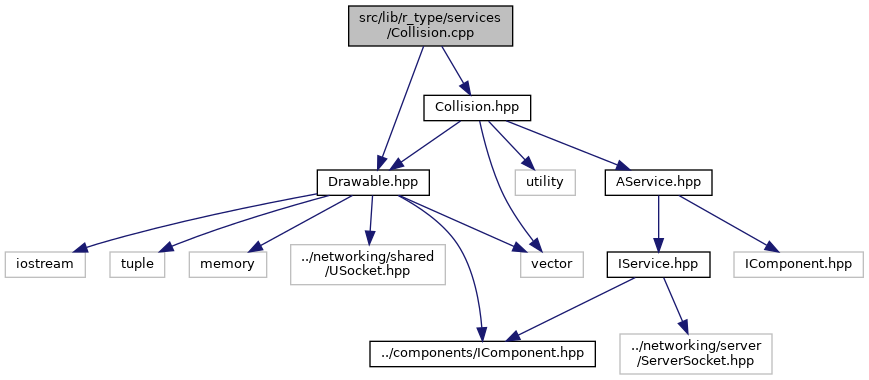
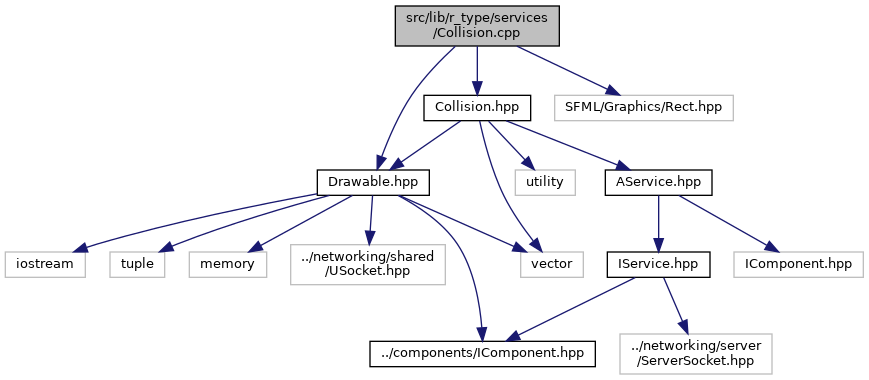
Deploying to gh-pages from @ Nathandelenclos/Rtype@f2a9d0695e841857b77890099f1d2eaf0515cfd4 🚀

diff --git a/Collision_8cpp_source.html b/Collision_8cpp_source.html
@@ -75,81 +75,61 @@ $(function() {
 <div class="line"><a name="l00004"></a><span class="lineno">    4</span>&#160; </div>
 <div class="line"><a name="l00005"></a><span class="lineno">    5</span>&#160;<span class="preprocessor">#</span><span class="preprocessor">include</span> <a class="code" href="Collision_8hpp.html">&quot;Collision.hpp&quot;</a></div>
 <div class="line"><a name="l00006"></a><span class="lineno">    6</span>&#160;<span class="preprocessor">#</span><span class="preprocessor">include</span> <a class="code" href="Drawable_8hpp.html">&quot;Drawable.hpp&quot;</a></div>
-<div class="line"><a name="l00007"></a><span class="lineno">    7</span>&#160; </div>
-<div class="line"><a name="l00008"></a><span class="lineno"><a class="line" href="classCollision.html#a890eb98d3957f7eb451d617f5e12762c">    8</a></span>&#160;<span class="keywordtype">void</span> <a class="code" href="classCollision.html">Collision</a>::<a class="code" href="classCollision.html#a890eb98d3957f7eb451d617f5e12762c">update</a>(std::shared_ptr&lt;Event&gt; event, std::shared_ptr&lt;<a class="code" href="classIComponentRType.html">IComponentRType</a>&gt; component) {</div>
-<div class="line"><a name="l00009"></a><span class="lineno">    9</span>&#160;    <span class="keyword">auto</span> drawable = std::dynamic_pointer_cast&lt;Drawable&gt;(component);</div>
-<div class="line"><a name="l00010"></a><span class="lineno">   10</span>&#160;    <span class="keywordflow">if</span> (!drawable) <span class="keywordflow">return</span>;</div>
-<div class="line"><a name="l00011"></a><span class="lineno">   11</span>&#160;    <span class="keywordflow">for</span> (<span class="keyword">auto</span> &amp;other: drawable-&gt;getDrawablesCollision()) {</div>
-<div class="line"><a name="l00012"></a><span class="lineno">   12</span>&#160;        <span class="keywordflow">if</span> (Collision::checkCollision(drawable, other)) {</div>
-<div class="line"><a name="l00013"></a><span class="lineno">   13</span>&#160;            <span class="keywordflow">if</span> (drawable-&gt;_textureId == BULLET) {</div>
-<div class="line"><a name="l00014"></a><span class="lineno">   14</span>&#160;                <span class="keywordflow">if</span> (other-&gt;_textureId == ENEMY) {</div>
-<div class="line"><a name="l00015"></a><span class="lineno">   15</span>&#160;                    drawable-&gt;_toDelete = <span class="keyword">true</span>;</div>
-<div class="line"><a name="l00016"></a><span class="lineno">   16</span>&#160;                    other-&gt;_toDelete = <span class="keyword">true</span>;</div>
-<div class="line"><a name="l00017"></a><span class="lineno">   17</span>&#160;                }</div>
-<div class="line"><a name="l00018"></a><span class="lineno">   18</span>&#160;            }</div>
-<div class="line"><a name="l00019"></a><span class="lineno">   19</span>&#160;        }</div>
-<div class="line"><a name="l00020"></a><span class="lineno">   20</span>&#160;    }</div>
-<div class="line"><a name="l00021"></a><span class="lineno">   21</span>&#160;}</div>
-<div class="line"><a name="l00022"></a><span class="lineno">   22</span>&#160; </div>
-<div class="line"><a name="l00023"></a><span class="lineno"><a class="line" href="classCollision.html#a5a1c4d571bb892f945f551b43971a901">   23</a></span>&#160;<span class="keywordtype">bool</span> <a class="code" href="classCollision.html">Collision</a>::<a class="code" href="classCollision.html#a5a1c4d571bb892f945f551b43971a901">checkCollision</a>(<span class="keyword">const</span> std::shared_ptr&lt;<a class="code" href="classDrawable.html">Drawable</a>&gt;&amp; drawable, <span class="keyword">const</span> std::shared_ptr&lt;<a class="code" href="classDrawable.html">Drawable</a>&gt;&amp; other) {</div>
-<div class="line"><a name="l00024"></a><span class="lineno">   24</span>&#160;    <a class="code" href="Drawable_8hpp.html#ac121d963f036d3ca9a61642014c3fcce">Position</a> pos1 = drawable-&gt;getPosition();</div>
-<div class="line"><a name="l00025"></a><span class="lineno">   25</span>&#160;    <a class="code" href="Drawable_8hpp.html#ac121d963f036d3ca9a61642014c3fcce">Position</a> pos2 = other-&gt;getPosition();</div>
-<div class="line"><a name="l00026"></a><span class="lineno">   26</span>&#160;    <a class="code" href="Drawable_8hpp.html#ab612d3d3173054bfdf27412db190f427">Size</a> size1 = drawable-&gt;getSize();</div>
-<div class="line"><a name="l00027"></a><span class="lineno">   27</span>&#160;    <a class="code" href="Drawable_8hpp.html#ab612d3d3173054bfdf27412db190f427">Size</a> size2 = other-&gt;getSize();</div>
-<div class="line"><a name="l00028"></a><span class="lineno">   28</span>&#160; </div>
-<div class="line"><a name="l00029"></a><span class="lineno">   29</span>&#160;    <span class="keywordflow">if</span> (std::get&lt;0&gt;(pos1) &lt; std::get&lt;0&gt;(pos2) &amp;&amp; std::get&lt;0&gt;(pos1) + std::get&lt;0&gt;(size1) &gt; std::get&lt;0&gt;(pos2) &amp;&amp;</div>
-<div class="line"><a name="l00030"></a><span class="lineno">   30</span>&#160;        std::get&lt;1&gt;(pos1) &lt; std::get&lt;1&gt;(pos2) &amp;&amp; std::get&lt;1&gt;(pos1) + std::get&lt;1&gt;(size1) &gt; std::get&lt;1&gt;(pos2)) {</div>
-<div class="line"><a name="l00031"></a><span class="lineno">   31</span>&#160;        <span class="keywordflow">return</span> <span class="keyword">true</span>;</div>
-<div class="line"><a name="l00032"></a><span class="lineno">   32</span>&#160;    }</div>
-<div class="line"><a name="l00033"></a><span class="lineno">   33</span>&#160;    <span class="keywordflow">if</span> (std::get&lt;0&gt;(pos1) &lt; std::get&lt;0&gt;(pos2) + std::get&lt;0&gt;(size2) &amp;&amp;</div>
-<div class="line"><a name="l00034"></a><span class="lineno">   34</span>&#160;        std::get&lt;0&gt;(pos1) + std::get&lt;0&gt;(size1) &gt; std::get&lt;0&gt;(pos2) + std::get&lt;0&gt;(size2) &amp;&amp;</div>
-<div class="line"><a name="l00035"></a><span class="lineno">   35</span>&#160;        std::get&lt;1&gt;(pos1) &lt; std::get&lt;1&gt;(pos2) + std::get&lt;1&gt;(size2) &amp;&amp;</div>
-<div class="line"><a name="l00036"></a><span class="lineno">   36</span>&#160;        std::get&lt;1&gt;(pos1) + std::get&lt;1&gt;(size1) &gt; std::get&lt;1&gt;(pos2) + std::get&lt;1&gt;(size2)) {</div>
-<div class="line"><a name="l00037"></a><span class="lineno">   37</span>&#160;        <span class="keywordflow">return</span> <span class="keyword">true</span>;</div>
-<div class="line"><a name="l00038"></a><span class="lineno">   38</span>&#160;    }</div>
-<div class="line"><a name="l00039"></a><span class="lineno">   39</span>&#160;    <span class="keywordflow">if</span> (std::get&lt;0&gt;(pos1) &lt; std::get&lt;0&gt;(pos2) + std::get&lt;0&gt;(size2) &amp;&amp;</div>
-<div class="line"><a name="l00040"></a><span class="lineno">   40</span>&#160;        std::get&lt;0&gt;(pos1) + std::get&lt;0&gt;(size1) &gt; std::get&lt;0&gt;(pos2) + std::get&lt;0&gt;(size2) &amp;&amp;</div>
-<div class="line"><a name="l00041"></a><span class="lineno">   41</span>&#160;        std::get&lt;1&gt;(pos1) &lt; std::get&lt;1&gt;(pos2) &amp;&amp;</div>
-<div class="line"><a name="l00042"></a><span class="lineno">   42</span>&#160;        std::get&lt;1&gt;(pos1) + std::get&lt;1&gt;(size1) &gt; std::get&lt;1&gt;(pos2)) {</div>
-<div class="line"><a name="l00043"></a><span class="lineno">   43</span>&#160;        <span class="keywordflow">return</span> <span class="keyword">true</span>;</div>
-<div class="line"><a name="l00044"></a><span class="lineno">   44</span>&#160;    }</div>
-<div class="line"><a name="l00045"></a><span class="lineno">   45</span>&#160;    <span class="keywordflow">if</span> (std::get&lt;0&gt;(pos1) &lt; std::get&lt;0&gt;(pos2) &amp;&amp;</div>
-<div class="line"><a name="l00046"></a><span class="lineno">   46</span>&#160;        std::get&lt;0&gt;(pos1) + std::get&lt;0&gt;(size1) &gt; std::get&lt;0&gt;(pos2) &amp;&amp;</div>
-<div class="line"><a name="l00047"></a><span class="lineno">   47</span>&#160;        std::get&lt;1&gt;(pos1) &lt; std::get&lt;1&gt;(pos2) + std::get&lt;1&gt;(size2) &amp;&amp;</div>
-<div class="line"><a name="l00048"></a><span class="lineno">   48</span>&#160;        std::get&lt;1&gt;(pos1) + std::get&lt;1&gt;(size1) &gt; std::get&lt;1&gt;(pos2) + std::get&lt;1&gt;(size2)) {</div>
-<div class="line"><a name="l00049"></a><span class="lineno">   49</span>&#160;        <span class="keywordflow">return</span> <span class="keyword">true</span>;</div>
-<div class="line"><a name="l00050"></a><span class="lineno">   50</span>&#160;    }</div>
-<div class="line"><a name="l00051"></a><span class="lineno">   51</span>&#160; </div>
-<div class="line"><a name="l00052"></a><span class="lineno">   52</span>&#160;    <span class="keywordflow">return</span> <span class="keyword">false</span>;</div>
-<div class="line"><a name="l00053"></a><span class="lineno">   53</span>&#160; </div>
-<div class="line"><a name="l00054"></a><span class="lineno">   54</span>&#160;}</div>
-<div class="line"><a name="l00055"></a><span class="lineno">   55</span>&#160; </div>
-<div class="line"><a name="l00056"></a><span class="lineno"><a class="line" href="classCollision.html#aeffb51679a7631bd486831c59bba81b5">   56</a></span>&#160;<span class="keywordtype">void</span> <a class="code" href="classCollision.html">Collision</a>::<a class="code" href="classCollision.html#aeffb51679a7631bd486831c59bba81b5">cancelMove</a>(<span class="keyword">const</span> std::shared_ptr&lt;Event&gt;&amp; event, <span class="keyword">const</span> std::shared_ptr&lt;<a class="code" href="classDrawable.html">Drawable</a>&gt;&amp; drawable) {</div>
-<div class="line"><a name="l00057"></a><span class="lineno">   57</span>&#160;    std::cout &lt;&lt; <span class="stringliteral">&quot;collision&quot;</span> &lt;&lt; std::endl;</div>
-<div class="line"><a name="l00058"></a><span class="lineno">   58</span>&#160;    std::tuple&lt;<span class="keywordtype">float</span>, <span class="keywordtype">float</span>&gt; pos = drawable-&gt;getPosition();</div>
-<div class="line"><a name="l00059"></a><span class="lineno">   59</span>&#160;    std::cout &lt;&lt; <span class="stringliteral">&quot;pos: &quot;</span> &lt;&lt; std::get&lt;0&gt;(pos) &lt;&lt; <span class="stringliteral">&quot; &quot;</span> &lt;&lt; std::get&lt;1&gt;(pos) &lt;&lt; std::endl;</div>
-<div class="line"><a name="l00060"></a><span class="lineno">   60</span>&#160;    <span class="keywordflow">if</span> (event == <span class="keywordtype">nullptr</span>) <span class="keywordflow">return</span>;</div>
-<div class="line"><a name="l00061"></a><span class="lineno">   61</span>&#160;    <span class="keywordflow">switch</span> (event-&gt;key) {</div>
-<div class="line"><a name="l00062"></a><span class="lineno">   62</span>&#160;        <span class="keywordflow">case</span> sf::Keyboard::Key::Left:</div>
-<div class="line"><a name="l00063"></a><span class="lineno">   63</span>&#160;            std::cout &lt;&lt; <span class="stringliteral">&quot;left&quot;</span> &lt;&lt; std::endl;</div>
-<div class="line"><a name="l00064"></a><span class="lineno">   64</span>&#160;            drawable-&gt;setPosition(std::make_tuple(std::get&lt;0&gt;(pos) + 5, std::get&lt;1&gt;(pos)));</div>
-<div class="line"><a name="l00065"></a><span class="lineno">   65</span>&#160;            <span class="keywordflow">break</span>;</div>
-<div class="line"><a name="l00066"></a><span class="lineno">   66</span>&#160;        <span class="keywordflow">case</span> sf::Keyboard::Key::Right:</div>
-<div class="line"><a name="l00067"></a><span class="lineno">   67</span>&#160;            std::cout &lt;&lt; <span class="stringliteral">&quot;Right&quot;</span> &lt;&lt; std::endl;</div>
-<div class="line"><a name="l00068"></a><span class="lineno">   68</span>&#160;            drawable-&gt;setPosition(std::make_tuple(std::get&lt;0&gt;(pos) - 5, std::get&lt;1&gt;(pos)));</div>
-<div class="line"><a name="l00069"></a><span class="lineno">   69</span>&#160;            <span class="keywordflow">break</span>;</div>
-<div class="line"><a name="l00070"></a><span class="lineno">   70</span>&#160;        <span class="keywordflow">case</span> sf::Keyboard::Key::Up:</div>
-<div class="line"><a name="l00071"></a><span class="lineno">   71</span>&#160;            std::cout &lt;&lt; <span class="stringliteral">&quot;Up&quot;</span> &lt;&lt; std::endl;</div>
-<div class="line"><a name="l00072"></a><span class="lineno">   72</span>&#160;            drawable-&gt;setPosition(std::make_tuple(std::get&lt;0&gt;(pos), std::get&lt;1&gt;(pos) - 5));</div>
-<div class="line"><a name="l00073"></a><span class="lineno">   73</span>&#160;            <span class="keywordflow">break</span>;</div>
-<div class="line"><a name="l00074"></a><span class="lineno">   74</span>&#160;        <span class="keywordflow">case</span> sf::Keyboard::Key::Down:</div>
-<div class="line"><a name="l00075"></a><span class="lineno">   75</span>&#160;            std::cout &lt;&lt; <span class="stringliteral">&quot;Down&quot;</span> &lt;&lt; std::endl;</div>
-<div class="line"><a name="l00076"></a><span class="lineno">   76</span>&#160;            drawable-&gt;setPosition(std::make_tuple(std::get&lt;0&gt;(pos), std::get&lt;1&gt;(pos) + 5));</div>
-<div class="line"><a name="l00077"></a><span class="lineno">   77</span>&#160;            <span class="keywordflow">break</span>;</div>
-<div class="line"><a name="l00078"></a><span class="lineno">   78</span>&#160;        <span class="keywordflow">default</span>:</div>
-<div class="line"><a name="l00079"></a><span class="lineno">   79</span>&#160;            <span class="keywordflow">break</span>;</div>
-<div class="line"><a name="l00080"></a><span class="lineno">   80</span>&#160;    }</div>
-<div class="line"><a name="l00081"></a><span class="lineno">   81</span>&#160;}</div>
+<div class="line"><a name="l00007"></a><span class="lineno">    7</span>&#160;<span class="preprocessor">#</span><span class="preprocessor">include</span> <span class="preprocessor">&quot;SFML/Graphics/Rect.hpp&quot;</span></div>
+<div class="line"><a name="l00008"></a><span class="lineno">    8</span>&#160; </div>
+<div class="line"><a name="l00009"></a><span class="lineno"><a class="line" href="classCollision.html#a890eb98d3957f7eb451d617f5e12762c">    9</a></span>&#160;<span class="keywordtype">void</span> <a class="code" href="classCollision.html">Collision</a>::<a class="code" href="classCollision.html#a890eb98d3957f7eb451d617f5e12762c">update</a>(std::shared_ptr&lt;Event&gt; event, std::shared_ptr&lt;<a class="code" href="classIComponentRType.html">IComponentRType</a>&gt; component) {</div>
+<div class="line"><a name="l00010"></a><span class="lineno">   10</span>&#160;    <span class="keyword">auto</span> drawable = std::dynamic_pointer_cast&lt;Drawable&gt;(component);</div>
+<div class="line"><a name="l00011"></a><span class="lineno">   11</span>&#160;    <span class="keywordflow">if</span> (!drawable) <span class="keywordflow">return</span>;</div>
+<div class="line"><a name="l00012"></a><span class="lineno">   12</span>&#160;    <span class="keywordflow">for</span> (<span class="keyword">auto</span> &amp;other: drawable-&gt;getDrawablesCollision()) {</div>
+<div class="line"><a name="l00013"></a><span class="lineno">   13</span>&#160;        <span class="keywordflow">if</span> (Collision::checkCollision(drawable, other)) {</div>
+<div class="line"><a name="l00014"></a><span class="lineno">   14</span>&#160;            <span class="keywordflow">if</span> (drawable-&gt;_textureId == BULLET) {</div>
+<div class="line"><a name="l00015"></a><span class="lineno">   15</span>&#160;                <span class="keywordflow">if</span> (other-&gt;_textureId == ENEMY) {</div>
+<div class="line"><a name="l00016"></a><span class="lineno">   16</span>&#160;                    drawable-&gt;_toDelete = <span class="keyword">true</span>;</div>
+<div class="line"><a name="l00017"></a><span class="lineno">   17</span>&#160;                    other-&gt;_toDelete = <span class="keyword">true</span>;</div>
+<div class="line"><a name="l00018"></a><span class="lineno">   18</span>&#160;                }</div>
+<div class="line"><a name="l00019"></a><span class="lineno">   19</span>&#160;            }</div>
+<div class="line"><a name="l00020"></a><span class="lineno">   20</span>&#160;        }</div>
+<div class="line"><a name="l00021"></a><span class="lineno">   21</span>&#160;    }</div>
+<div class="line"><a name="l00022"></a><span class="lineno">   22</span>&#160;}</div>
+<div class="line"><a name="l00023"></a><span class="lineno">   23</span>&#160; </div>
+<div class="line"><a name="l00024"></a><span class="lineno"><a class="line" href="classCollision.html#a5a1c4d571bb892f945f551b43971a901">   24</a></span>&#160;<span class="keywordtype">bool</span> <a class="code" href="classCollision.html">Collision</a>::<a class="code" href="classCollision.html#a5a1c4d571bb892f945f551b43971a901">checkCollision</a>(<span class="keyword">const</span> std::shared_ptr&lt;<a class="code" href="classDrawable.html">Drawable</a>&gt;&amp; drawable, <span class="keyword">const</span> std::shared_ptr&lt;<a class="code" href="classDrawable.html">Drawable</a>&gt;&amp; other) {</div>
+<div class="line"><a name="l00025"></a><span class="lineno">   25</span>&#160;    <a class="code" href="Drawable_8hpp.html#ac121d963f036d3ca9a61642014c3fcce">Position</a> pos1 = drawable-&gt;getPosition();</div>
+<div class="line"><a name="l00026"></a><span class="lineno">   26</span>&#160;    <a class="code" href="Drawable_8hpp.html#ac121d963f036d3ca9a61642014c3fcce">Position</a> pos2 = other-&gt;getPosition();</div>
+<div class="line"><a name="l00027"></a><span class="lineno">   27</span>&#160;    <a class="code" href="Drawable_8hpp.html#ab612d3d3173054bfdf27412db190f427">Size</a> size1 = {std::get&lt;2&gt;(drawable-&gt;getRect()) * drawable-&gt;getScale(), std::get&lt;3&gt;(drawable-&gt;getRect()) * drawable-&gt;getScale()};</div>
+<div class="line"><a name="l00028"></a><span class="lineno">   28</span>&#160;    <a class="code" href="Drawable_8hpp.html#ab612d3d3173054bfdf27412db190f427">Size</a> size2 = {std::get&lt;2&gt;(other-&gt;getRect()) * other-&gt;getScale(), std::get&lt;3&gt;(other-&gt;getRect()) * other-&gt;getScale()};</div>
+<div class="line"><a name="l00029"></a><span class="lineno">   29</span>&#160; </div>
+<div class="line"><a name="l00030"></a><span class="lineno">   30</span>&#160;    sf::Rect&lt;<span class="keywordtype">float</span>&gt; rect1(std::get&lt;0&gt;(pos1), std::get&lt;1&gt;(pos1), std::get&lt;0&gt;(size1), std::get&lt;1&gt;(size1));</div>
+<div class="line"><a name="l00031"></a><span class="lineno">   31</span>&#160;    sf::Rect&lt;<span class="keywordtype">float</span>&gt; rect2(std::get&lt;0&gt;(pos2), std::get&lt;1&gt;(pos2), std::get&lt;0&gt;(size2), std::get&lt;1&gt;(size2));</div>
+<div class="line"><a name="l00032"></a><span class="lineno">   32</span>&#160; </div>
+<div class="line"><a name="l00033"></a><span class="lineno">   33</span>&#160;    <span class="keywordflow">return</span> rect1.intersects(rect2);</div>
+<div class="line"><a name="l00034"></a><span class="lineno">   34</span>&#160;}</div>
+<div class="line"><a name="l00035"></a><span class="lineno">   35</span>&#160; </div>
+<div class="line"><a name="l00036"></a><span class="lineno"><a class="line" href="classCollision.html#aeffb51679a7631bd486831c59bba81b5">   36</a></span>&#160;<span class="keywordtype">void</span> <a class="code" href="classCollision.html">Collision</a>::<a class="code" href="classCollision.html#aeffb51679a7631bd486831c59bba81b5">cancelMove</a>(<span class="keyword">const</span> std::shared_ptr&lt;Event&gt;&amp; event, <span class="keyword">const</span> std::shared_ptr&lt;<a class="code" href="classDrawable.html">Drawable</a>&gt;&amp; drawable) {</div>
+<div class="line"><a name="l00037"></a><span class="lineno">   37</span>&#160;    std::cout &lt;&lt; <span class="stringliteral">&quot;collision&quot;</span> &lt;&lt; std::endl;</div>
+<div class="line"><a name="l00038"></a><span class="lineno">   38</span>&#160;    std::tuple&lt;<span class="keywordtype">float</span>, <span class="keywordtype">float</span>&gt; pos = drawable-&gt;getPosition();</div>
+<div class="line"><a name="l00039"></a><span class="lineno">   39</span>&#160;    std::cout &lt;&lt; <span class="stringliteral">&quot;pos: &quot;</span> &lt;&lt; std::get&lt;0&gt;(pos) &lt;&lt; <span class="stringliteral">&quot; &quot;</span> &lt;&lt; std::get&lt;1&gt;(pos) &lt;&lt; std::endl;</div>
+<div class="line"><a name="l00040"></a><span class="lineno">   40</span>&#160;    <span class="keywordflow">if</span> (event == <span class="keywordtype">nullptr</span>) <span class="keywordflow">return</span>;</div>
+<div class="line"><a name="l00041"></a><span class="lineno">   41</span>&#160;    <span class="keywordflow">switch</span> (event-&gt;key) {</div>
+<div class="line"><a name="l00042"></a><span class="lineno">   42</span>&#160;        <span class="keywordflow">case</span> sf::Keyboard::Key::Left:</div>
+<div class="line"><a name="l00043"></a><span class="lineno">   43</span>&#160;            std::cout &lt;&lt; <span class="stringliteral">&quot;left&quot;</span> &lt;&lt; std::endl;</div>
+<div class="line"><a name="l00044"></a><span class="lineno">   44</span>&#160;            drawable-&gt;setPosition(std::make_tuple(std::get&lt;0&gt;(pos) + 5, std::get&lt;1&gt;(pos)));</div>
+<div class="line"><a name="l00045"></a><span class="lineno">   45</span>&#160;            <span class="keywordflow">break</span>;</div>
+<div class="line"><a name="l00046"></a><span class="lineno">   46</span>&#160;        <span class="keywordflow">case</span> sf::Keyboard::Key::Right:</div>
+<div class="line"><a name="l00047"></a><span class="lineno">   47</span>&#160;            std::cout &lt;&lt; <span class="stringliteral">&quot;Right&quot;</span> &lt;&lt; std::endl;</div>
+<div class="line"><a name="l00048"></a><span class="lineno">   48</span>&#160;            drawable-&gt;setPosition(std::make_tuple(std::get&lt;0&gt;(pos) - 5, std::get&lt;1&gt;(pos)));</div>
+<div class="line"><a name="l00049"></a><span class="lineno">   49</span>&#160;            <span class="keywordflow">break</span>;</div>
+<div class="line"><a name="l00050"></a><span class="lineno">   50</span>&#160;        <span class="keywordflow">case</span> sf::Keyboard::Key::Up:</div>
+<div class="line"><a name="l00051"></a><span class="lineno">   51</span>&#160;            std::cout &lt;&lt; <span class="stringliteral">&quot;Up&quot;</span> &lt;&lt; std::endl;</div>
+<div class="line"><a name="l00052"></a><span class="lineno">   52</span>&#160;            drawable-&gt;setPosition(std::make_tuple(std::get&lt;0&gt;(pos), std::get&lt;1&gt;(pos) - 5));</div>
+<div class="line"><a name="l00053"></a><span class="lineno">   53</span>&#160;            <span class="keywordflow">break</span>;</div>
+<div class="line"><a name="l00054"></a><span class="lineno">   54</span>&#160;        <span class="keywordflow">case</span> sf::Keyboard::Key::Down:</div>
+<div class="line"><a name="l00055"></a><span class="lineno">   55</span>&#160;            std::cout &lt;&lt; <span class="stringliteral">&quot;Down&quot;</span> &lt;&lt; std::endl;</div>
+<div class="line"><a name="l00056"></a><span class="lineno">   56</span>&#160;            drawable-&gt;setPosition(std::make_tuple(std::get&lt;0&gt;(pos), std::get&lt;1&gt;(pos) + 5));</div>
+<div class="line"><a name="l00057"></a><span class="lineno">   57</span>&#160;            <span class="keywordflow">break</span>;</div>
+<div class="line"><a name="l00058"></a><span class="lineno">   58</span>&#160;        <span class="keywordflow">default</span>:</div>
+<div class="line"><a name="l00059"></a><span class="lineno">   59</span>&#160;            <span class="keywordflow">break</span>;</div>
+<div class="line"><a name="l00060"></a><span class="lineno">   60</span>&#160;    }</div>
+<div class="line"><a name="l00061"></a><span class="lineno">   61</span>&#160;}</div>
 </div><!-- fragment --></div><!-- contents -->
 <!-- start footer part -->
 <hr class="footer"/><address class="footer"><small>

diff --git a/Lobby_8cpp_source.html b/Lobby_8cpp_source.html
@@ -100,7 +100,7 @@ $(function() {
 <div class="line"><a name="l00029"></a><span class="lineno">   29</span>&#160;    timer-&gt;_targetTime.tv_sec = 0;</div>
 <div class="line"><a name="l00030"></a><span class="lineno">   30</span>&#160;    timer-&gt;_targetTime.tv_usec = 50000;</div>
 <div class="line"><a name="l00031"></a><span class="lineno">   31</span>&#160;    timer-&gt;setTarget(sprite);</div>
-<div class="line"><a name="l00032"></a><span class="lineno">   32</span>&#160;    timer-&gt;setActive(<span class="keyword">true</span>);</div>
+<div class="line"><a name="l00032"></a><span class="lineno">   32</span>&#160;    timer-&gt;setActive(<span class="keyword">false</span>);</div>
 <div class="line"><a name="l00033"></a><span class="lineno">   33</span>&#160;    std::shared_ptr&lt;<a class="code" href="classAnimatable.html">Animatable</a>&gt; animation = std::make_shared&lt;Animatable&gt;();</div>
 <div class="line"><a name="l00034"></a><span class="lineno">   34</span>&#160;    animation-&gt;setTarget(sprite);</div>
 <div class="line"><a name="l00035"></a><span class="lineno">   35</span>&#160;    animation-&gt;setTime({0, 200000});</div>
@@ -113,7 +113,7 @@ $(function() {
 <div class="line"><a name="l00042"></a><span class="lineno">   42</span>&#160;    sprite-&gt;setRect({0, 0, 33, 36});</div>
 <div class="line"><a name="l00043"></a><span class="lineno">   43</span>&#160;    sprite-&gt;setSize({263 * 5, 36 * 5});</div>
 <div class="line"><a name="l00044"></a><span class="lineno">   44</span>&#160;    sprite-&gt;setScale(5);</div>
-<div class="line"><a name="l00045"></a><span class="lineno">   45</span>&#160;    sprite-&gt;setPosition({50, 50});</div>
+<div class="line"><a name="l00045"></a><span class="lineno">   45</span>&#160;    sprite-&gt;setPosition({200, 200});</div>
 <div class="line"><a name="l00046"></a><span class="lineno">   46</span>&#160;    sprite-&gt;setAttribute(<span class="stringliteral">&quot;sprite enemy&quot;</span>);</div>
 <div class="line"><a name="l00047"></a><span class="lineno">   47</span>&#160;    sprite-&gt;_textureId = ENEMY;</div>
 <div class="line"><a name="l00048"></a><span class="lineno">   48</span>&#160;    enemy1-&gt;setAttribute(<span class="stringliteral">&quot;sprite enemy&quot;</span>);</div>

diff --git a/classCollision.html b/classCollision.html
@@ -189,7 +189,7 @@ Additional Inherited Members</h2></td></tr>
 </table>
 </div><div class="memdoc">
 
-<p class="definition">Definition at line <a class="el" href="Collision_8cpp_source.html#l00056">56</a> of file <a class="el" href="Collision_8cpp_source.html">Collision.cpp</a>.</p>
+<p class="definition">Definition at line <a class="el" href="Collision_8cpp_source.html#l00036">36</a> of file <a class="el" href="Collision_8cpp_source.html">Collision.cpp</a>.</p>
 
 </div>
 </div>
@@ -227,7 +227,7 @@ Additional Inherited Members</h2></td></tr>
 </table>
 </div><div class="memdoc">
 
-<p class="definition">Definition at line <a class="el" href="Collision_8cpp_source.html#l00023">23</a> of file <a class="el" href="Collision_8cpp_source.html">Collision.cpp</a>.</p>
+<p class="definition">Definition at line <a class="el" href="Collision_8cpp_source.html#l00024">24</a> of file <a class="el" href="Collision_8cpp_source.html">Collision.cpp</a>.</p>
 
 </div>
 </div>
@@ -267,7 +267,7 @@ Additional Inherited Members</h2></td></tr>
 
 <p>Implements <a class="el" href="classAService.html#a3d49a40ddb9e5a38e2c62432a3f72ea1">AService</a>.</p>
 
-<p class="definition">Definition at line <a class="el" href="Collision_8cpp_source.html#l00008">8</a> of file <a class="el" href="Collision_8cpp_source.html">Collision.cpp</a>.</p>
+<p class="definition">Definition at line <a class="el" href="Collision_8cpp_source.html#l00009">9</a> of file <a class="el" href="Collision_8cpp_source.html">Collision.cpp</a>.</p>
 
 </div>
 </div>

diff --git a/Collision_8cpp.html b/Collision_8cpp.html
@@ -71,14 +71,16 @@ $(function() {
 <div class="contents">
 <div class="textblock"><code>#include &quot;<a class="el" href="Collision_8hpp_source.html">Collision.hpp</a>&quot;</code><br />
 <code>#include &quot;<a class="el" href="Drawable_8hpp_source.html">Drawable.hpp</a>&quot;</code><br />
+<code>#include &quot;SFML/Graphics/Rect.hpp&quot;</code><br />
 </div><div class="textblock"><div class="dynheader">
 Include dependency graph for Collision.cpp:</div>
 <div class="dyncontent">
 <div class="center"><img src="Collision_8cpp__incl.png" border="0" usemap="#asrc_2lib_2r__type_2services_2Collision_8cpp" alt=""/></div>
 <map name="asrc_2lib_2r__type_2services_2Collision_8cpp" id="asrc_2lib_2r__type_2services_2Collision_8cpp">
-<area shape="rect" title=" " alt="" coords="349,5,513,47"/>
+<area shape="rect" title=" " alt="" coords="395,5,559,47"/>
 <area shape="rect" href="Collision_8hpp.html" title=" " alt="" coords="424,95,531,121"/>
 <area shape="rect" href="Drawable_8hpp.html" title=" " alt="" coords="317,169,429,196"/>
+<area shape="rect" title=" " alt="" coords="555,95,733,121"/>
 <area shape="rect" href="AService_8hpp.html" title=" " alt="" coords="605,169,712,196"/>
 <area shape="rect" title=" " alt="" coords="521,251,583,278"/>
 <area shape="rect" title=" " alt="" coords="515,169,575,196"/>
